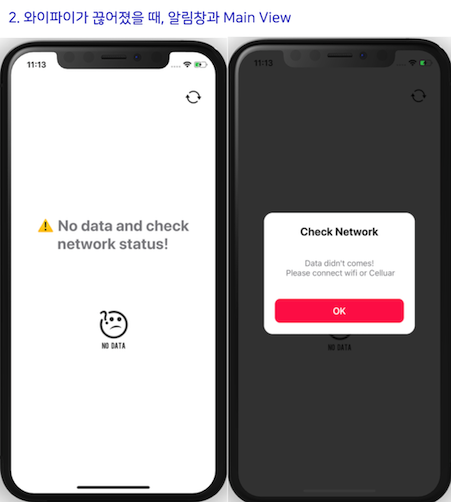
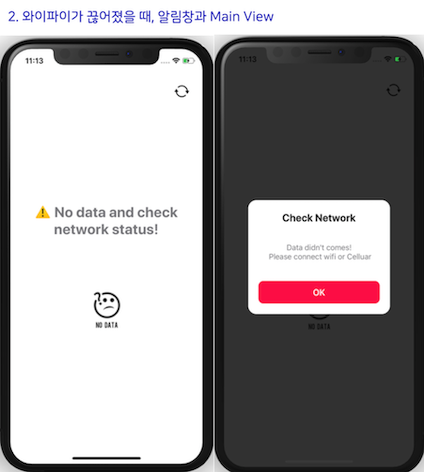
change image size smaller again

Changed region(s): [[0.4906, 0.1483, 0.5212, 0.9492]]

diff --git a/README.md b/README.md
@@ -15,7 +15,8 @@ Data shows by region. (Seoul, Daegu, Jeju)
 ![main.png](img/main.png)
 
 ### Empty Stateview
-![emptyView.png](img/emptyView.png)
+![emptyview.png](img/emptyview.png)
+
 
 
 ## Author
